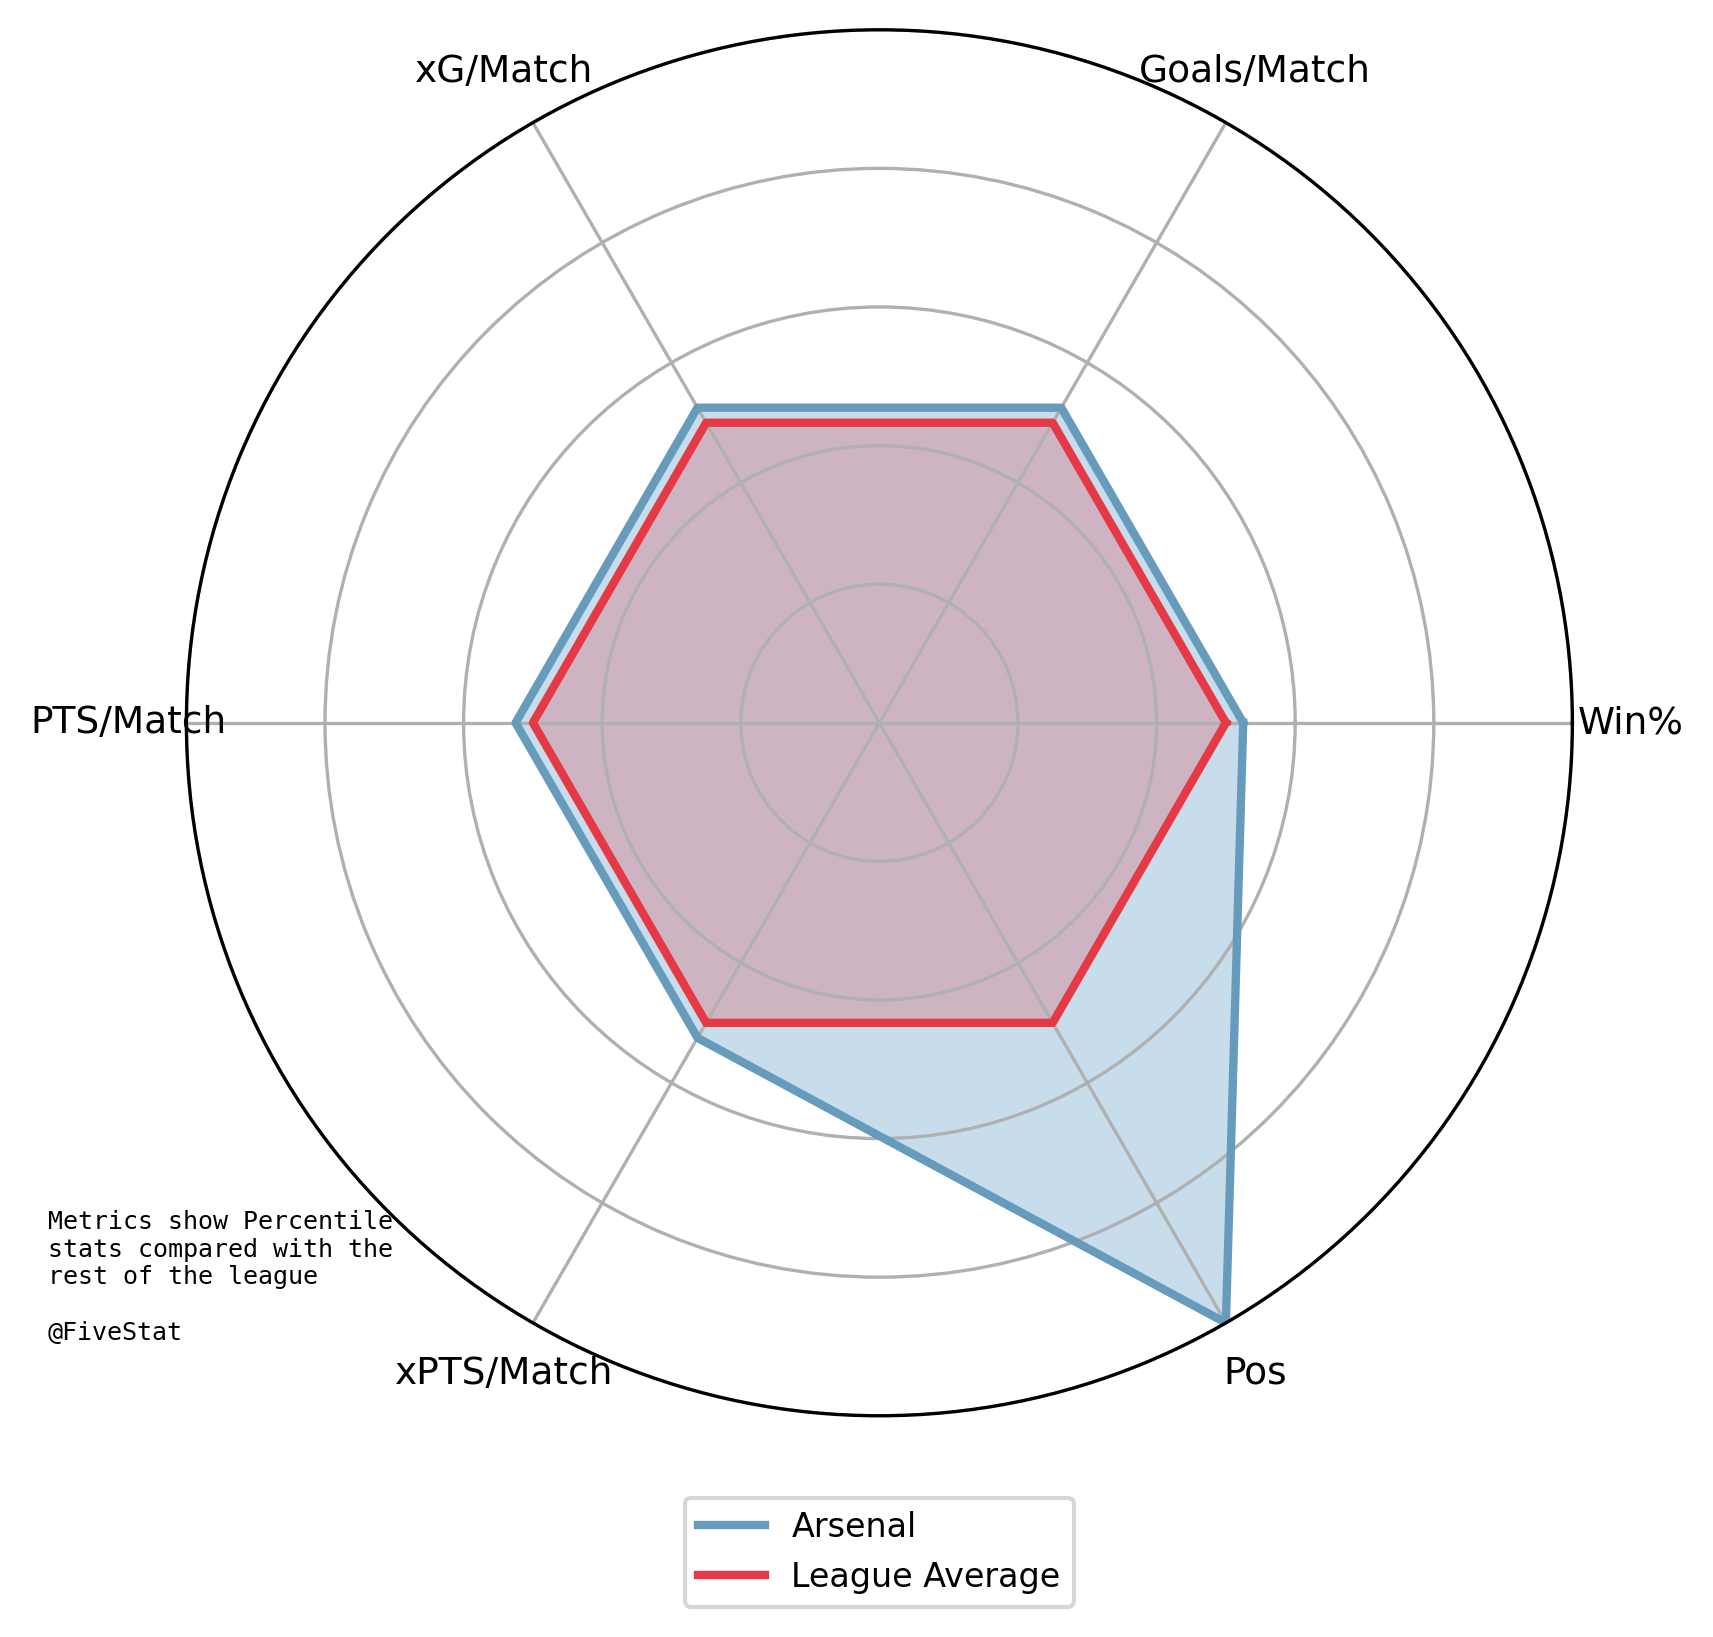
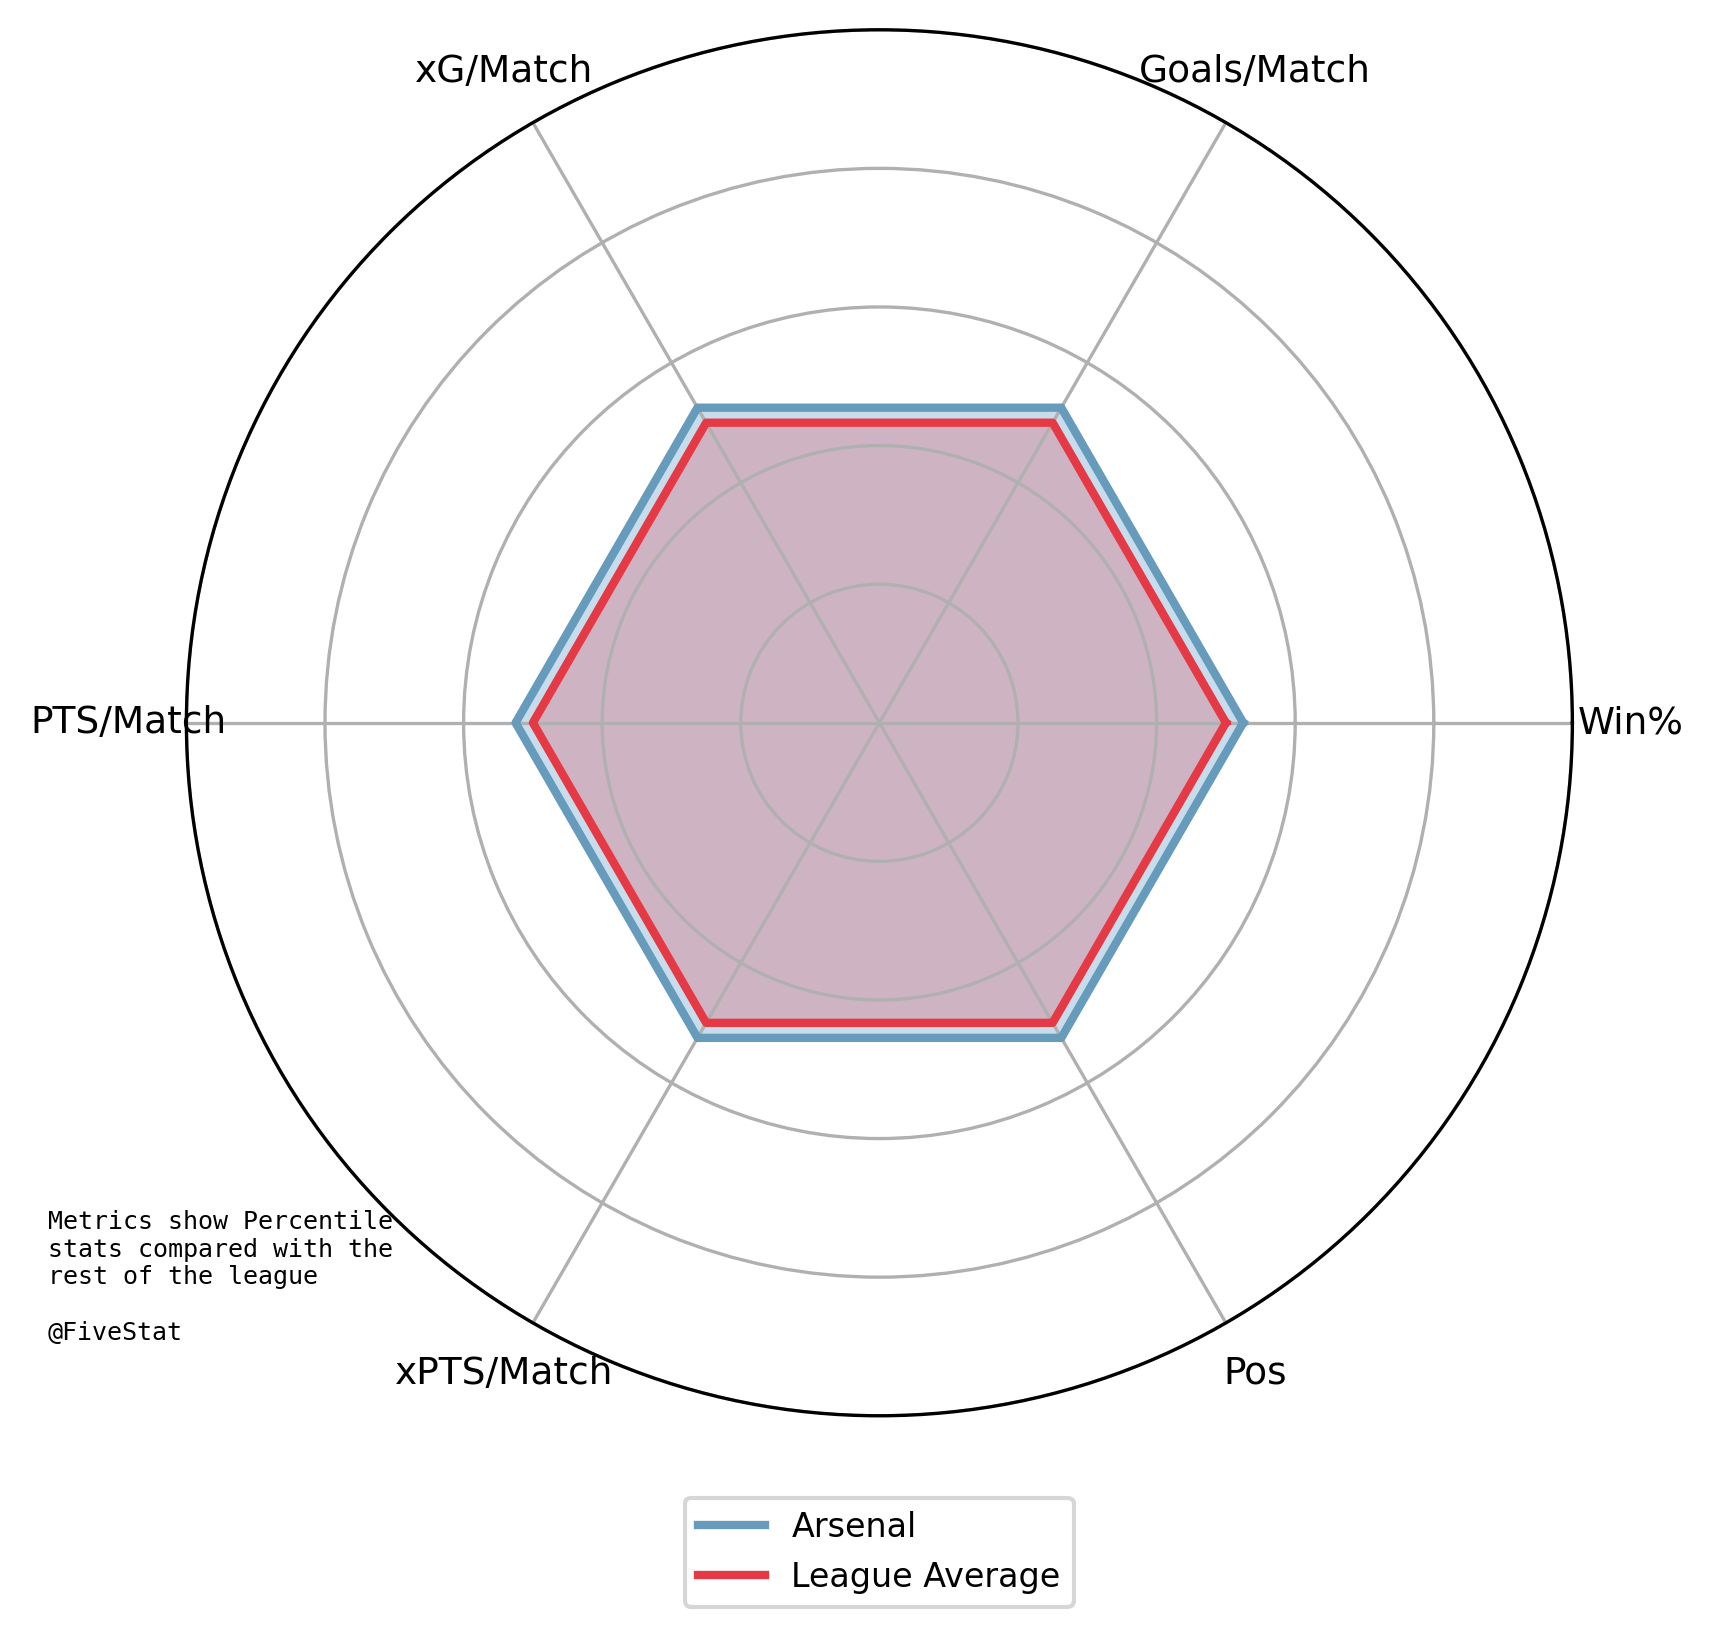
Force update of all visual and data table assets

Changed region(s): [[0.4022, 0.4362, 0.7426, 0.81]]

diff --git a/templates/team_page.html b/templates/team_page.html
@@ -179,9 +179,6 @@
                 <span class="dropdown-icon" id="next-icon"><i class="fas fa-chevron-down"></i></span>
             </div>
             <div id="next-section" class="fixture-body">
-                <p>
-                    ***Our Correct Score Prediction Heatmaps will be available once fixtures for the 25/26 Season are announced***
-                </p>
                 <div class="gw-selector">
                     <select id="next-gw-select" onchange="updateNextFixture(this.value); trackTeamSelect(this.value)">
                     {% for gw in upcoming_gameweeks %}

diff --git a/templates/index.html b/templates/index.html
@@ -53,7 +53,7 @@
 
     <div class="container">
         <p>
-            <strong>Welcome to FiveStat!</strong> <br> The hub of live Football Data Modelling, Visuals & Analysis!
+            <strong>Welcome to FiveStat!</strong> <br> A hub of live Football Data Modelling, Visuals & Analysis!
         </p>
         <p>
             Here you can gain the edge on football predictions via our Correct Score Heatmaps & Player Goal Projections.

diff --git a/data_loader.py b/data_loader.py
@@ -561,7 +561,7 @@ def predict_player_goals(player_name, player_team, num_fixtures=3, recent_matche
         ].sort_values("round_number").head(num_fixtures)
 
         print("🔄 Calculating team attack & defense ratings...")
-        team_stats, _ = calculate_team_statistics(historical_df)
+        team_stats, team_home_advantage = calculate_team_statistics(historical_df)
         print("✅ Base ratings calculated.")
         print("🔄 Calculating recent form (last 20 matches)...")
         recent_form_att, recent_form_def = calculate_recent_form(historical_df, team_stats)

diff --git a/generate_radars.py b/generate_radars.py
@@ -152,11 +152,9 @@ os.makedirs(SAVE_DIR, exist_ok=True)
 
 df = pd.read_csv(LEAGUE_DATA_PATH)
 
-# Sort by PTS descending to simulate actual table position
-df = df.sort_values(by="PTS", ascending=False).reset_index(drop=True)
 
-# Assign position as index + 1
-df["Pos"] = df.index + 1
+df["Pos"] = df["PTS"].rank(method="min", ascending=False).astype(int)
+
 
 
 # Metrics to include and how to calculate them

diff --git a/app.py b/app.py
@@ -88,9 +88,9 @@ def get_team_form(fixtures_df, team_name, max_matches=10):
 # league position visuals
 @app.template_filter('get_position_tooltip')
 def get_position_tooltip(pos):
-    if 1 <= pos <= 5:
+    if 1 <= pos <= 4:
         return "Champions League"
-    elif pos == 6:
+    elif 5 <= pos <= 6:
         return "Europa League"
     elif pos == 7:
         return "Conference League"
